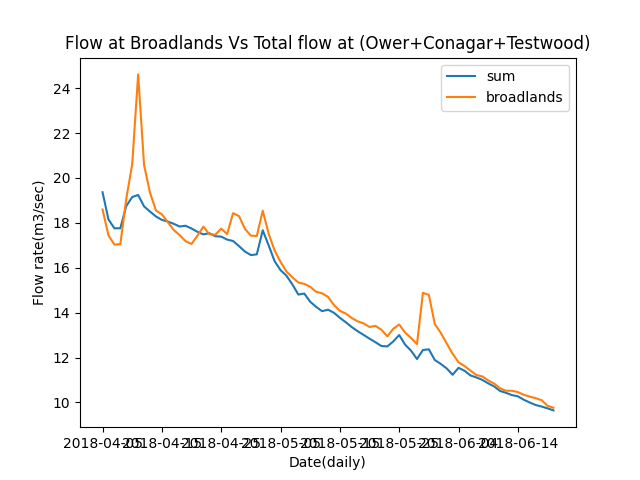
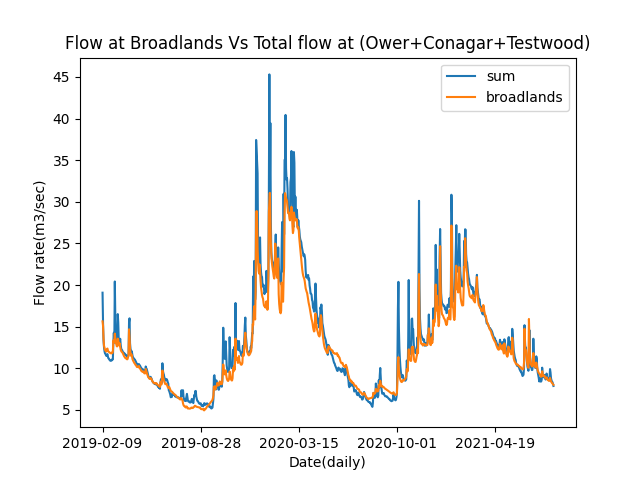
Initial SubmitIII

diff --git a/EDA.py b/EDA.py
@@ -42,7 +42,7 @@ result['broadlands'] = broadlands_comp['value'].astype(float)
 
 
 # System identification: from broadland to the sum of the divisions
-r = result[:77]
+r = result[310:]
 r.fillna(method="ffill",inplace=True)
 r.plot(y=['sum','broadlands'])
 SI = math.sqrt(mean_squared_error(r['sum'],r['broadlands']))/mean(r['sum'])*100
@@ -59,11 +59,11 @@ dir_path = os.path.dirname(os.path.realpath(__file__))
 result.to_csv(f"{data_path}/result.csv", index=False)
 
 
-pred = pd.read_csv(os.path.join(data_path,"pred.csv"))
+# pred = pd.read_csv(os.path.join(data_path,"pred.csv"))
 
 # print(pred[310:])
 # print(r['sum'])
-SI = math.sqrt(mean_squared_error(r['sum'],pred[:77]))/mean(r['sum'])*100
-r2 = r2_score(r['sum'],pred[:77])
-print(f"{SI:.2f}%",r2)
+# SI = math.sqrt(mean_squared_error(r['sum'],pred[:77]))/mean(r['sum'])*100
+# r2 = r2_score(r['sum'],pred[:77])
+# print(f"{SI:.2f}%",r2)
 

diff --git a/README.md b/README.md
@@ -16,9 +16,9 @@ on the river flow. The main objectives of the project include:
 3. Validate the model and automate the data extraction and prediction using Requests library and APIs
 4. Make an APP for better UI
 
-## Data collection
+## Data preparation
 ### Flow data
-Data collection is the most time-consuming task so far as I am aiming to collect 20 years of daily flow data for the modelling. 
+Collecting the data is a time-consuming task so far, as hydrology data often suffers discontinuity, and I aim to collect 20 years of data.
 According to [the draught permit application](https://www.southernwater.co.uk/media/7278/11-description_of_the_proposal-1.pdf) by Southern Water(section 2.3.3), the HOF of River Test is measured by summing the readings of the following gauge stations: 
 1. River Great Test at Testwood
 2. River Blackwater at Ower
@@ -31,10 +31,18 @@ The schematic of the hydrology of the River Test downstream of Romsey, adopted f
 
 The fact that HOF calculation is using Testwood GS combined with Ower GS station over Testwood Bridge GS is because Testwood Bridge GS does not exist yet. The interfacing module to Environment Agency 
 database is class __ImportFromEA__ in __EnvironAgency.py__. However, the Testwood GS station of EA has a severe data missing, only containing data from Apr 2018 until Aug 2021 and in low quality (unchecked estimation). 
-In order to fill the missing data, I used the data of [National River Flow Archive] (https://nrfa.ceh.ac.uk/data/search), who has Broadlands GS station that locates at the upstream of Testwood GS, Conagar Bridge GS and Test Back GS stations(look at the hydrology map above).
-Hence, it is possible to estimate the sum of the stations' missing data from the readings of Broadlands GS station, which is a system identification task in theory. To validate my idea, I extract the data from all the stations and plot them out: 
+In order to fill the gap, I merge the data of [National River Flow Archive] (https://nrfa.ceh.ac.uk/data/search), which has a Broadlands GS station that locates at the upstream of Testwood GS, Conagar Bridge GS and Test Back GS stations(look at the hydrology map to gain a better understanding).
+Given the proximity between the stations, it is possible to estimate the sum of the stations with missing data using the readings of Broadlands GS station, which is a system identification task. To validate my idea, I extract the data from all the stations and first plotted them to compare: 
 
-![Broadlands Vs Sum]()
+![Broadlands Vs Sum](https://github.com/JZhou3083/SouthernWater_Riverflow_Forcasting/blob/main/plots/Broadlands%20Vs%20Sum_of_Three.jpeg?raw=true)
+
+Then I also compute the Scatter Index and the coefficient of determination R2-score between the two series (code can be found from *EDA.py*) and found that for the existing data, the SI and R2-score are around 0.1 and 0.91 respectively. This is an unexpected good approximation. The equations of SI: 
+<img src="https://latex.codecogs.com/svg.image?SI&space;=&space;\frac{RMSE}{\overline{X}}=\frac{\sqrt{\frac{\sum_{x_i}^{N}(x_i-\hat{x_i})^2}{N}}}{\frac{\sum_{x_i}^{N}x_i}{N}}" title="https://latex.codecogs.com/svg.image?SI = \frac{RMSE}{\overline{X}}=\frac{\sqrt{\frac{\sum_{x_i}^{N}(x_i-\hat{x_i})^2}{N}}}{\frac{\sum_{x_i}^{N}x_i}{N}}" />
+
+and R2-score: 
+<img src="https://latex.codecogs.com/svg.image?R^{2}&space;=&space;1-\frac{RSS}{TSS}\\&space;" title="https://latex.codecogs.com/svg.image?R^{2} = 1-\frac{RSS}{TSS}\\ " />
+where RSS is the sum of squares of residuals, TSS is the total sum of squares. To sumarize, the closer R2-score is to 1 and the SI is to 0, the better the estimation it is. 
+
 
 
 [//]: # (## Objectives)
